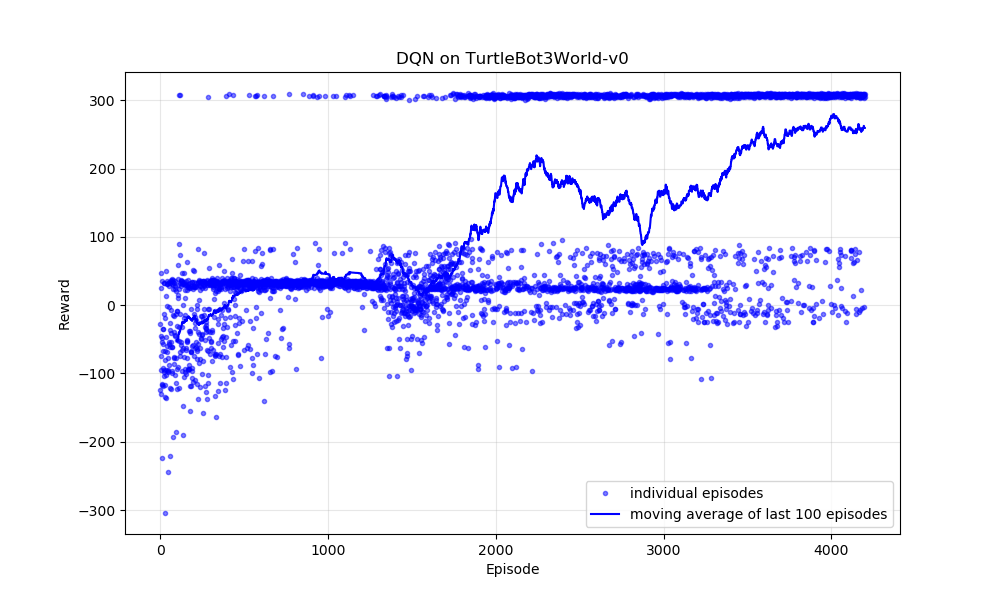
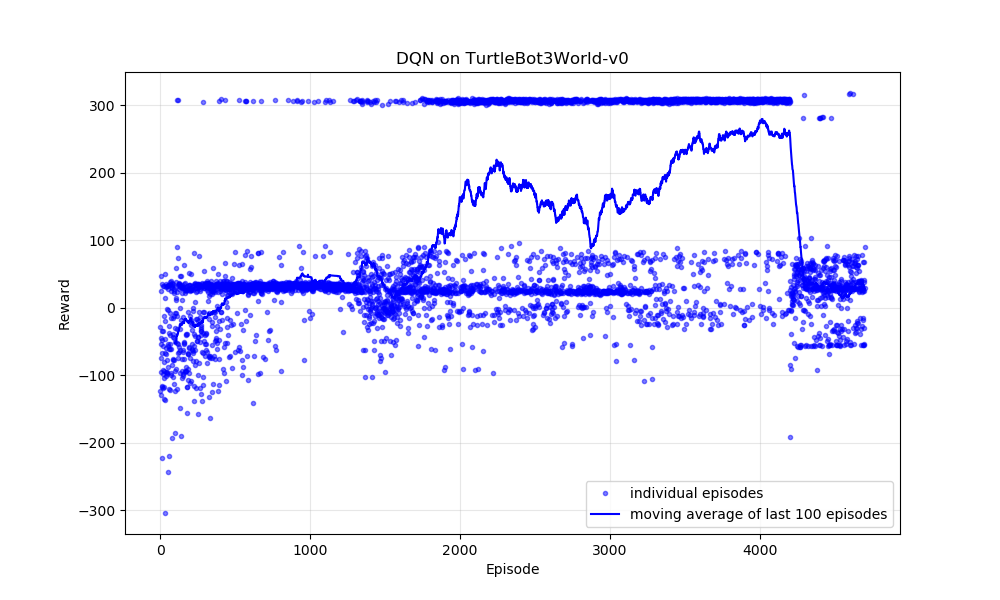
implement randomized goal position

diff --git a/thesis_ws/src/openai_ros/openai_ros/src/openai_ros/task_envs/turtlebot3/turtlebot3_world.py b/thesis_ws/src/openai_ros/openai_ros/src/openai_ros/task_envs/turtlebot3/turtlebot3_world.py
@@ -11,6 +11,7 @@ import cv2
 from cv_bridge import CvBridge
 
 import matplotlib.pyplot as plt
+import random
 
 
 class TurtleBot3WorldEnv(turtlebot3_env.TurtleBot3Env):
@@ -76,11 +77,6 @@ class TurtleBot3WorldEnv(turtlebot3_env.TurtleBot3Env):
         self.min_laser_value = rospy.get_param('/turtlebot3/min_laser_value')
         self.max_linear_aceleration = rospy.get_param('/turtlebot3/max_linear_aceleration')
 
-        # Parameters for the goal point
-        self.goal_position = Point()
-        self.goal_position.x = rospy.get_param('/turtlebot3/goal_position_x', 5.0)
-        self.goal_position.y = rospy.get_param('/turtlebot3/goal_position_y', 5.0)
-        self.goal_position.z = 0.0
         self.goal_distance_threshold = rospy.get_param('/turtlebot3/goal_distance_threshold', 0.2)
 
         self.timeout = rospy.get_param('/turtlebot3/timeout', 120.0)
@@ -148,6 +144,21 @@ class TurtleBot3WorldEnv(turtlebot3_env.TurtleBot3Env):
         self.cumulated_reward = 0.0
         # Set to false Done, because its calculated asyncronously
         self._episode_done = False
+
+        # Dynamic goal position, changing every epsiode
+        goal_points = [(-0.5, 3.0), 
+                       (2.5, -1.0),
+                       (-2.5, 2.0),
+                       (-2.5, -2.0)]
+        
+        x, y = random.choice(goal_points)
+
+        self.goal_position = Point()
+        self.goal_position.x = x
+        self.goal_position.y = y
+        self.goal_position.z = 0.0
+
+        rospy.logwarn("Next Goal Position==>"+str(self.goal_position))
 
         # Initialize previous distance to the goal
         odometry = self.get_odom()

diff --git a/thesis_ws/src/my_turtlebot3_openai_example/scripts/start_deepqlearning.py b/thesis_ws/src/my_turtlebot3_openai_example/scripts/start_deepqlearning.py
@@ -449,6 +449,7 @@ if __name__ == '__main__':
 
     load_model = rospy.get_param("/turtlebot3/load_model", False)
     reset_epsilon = rospy.get_param("/turtlebot3/reset_epsilon", False)
+    reset_memory = rospy.get_param("/turtlebot3/reset_memory", False)
 
     alpha = rospy.get_param("/turtlebot3/alpha", 0.6)
     beta_start = rospy.get_param("/turtlebot3/beta_start", 0.4)
@@ -498,13 +499,17 @@ if __name__ == '__main__':
                     policy_net.load_state_dict(checkpoint['policy_net_state_dict'])
                     target_net.load_state_dict(checkpoint['target_net_state_dict'])
                     optimizer.load_state_dict(checkpoint['optimizer_state_dict'])
-                    memory = checkpoint['memory']
                     episode_rewards = checkpoint['episode_rewards']
                     steps_done = checkpoint['steps_done']
                     highest_reward = checkpoint['highest_reward']
                     if reset_epsilon:
-                        epsilon = 0.3
+                        epsilon = 0.4
                         rospy.loginfo("Resetting epsilon to {epsilon}")
+                    if reset_memory:
+                        memory = PriorityReplayMemory(100000, alpha, beta_start, beta_frames, elite_ratio, reward_threshold)
+                        rospy.loginfo("Resetting memory")
+                    else:
+                        memory = checkpoint['memory']
                     rospy.loginfo(f"Resuming training from episode {start_episode}")
 
     # Starts the main training loop: the one about the episodes to do

diff --git a/thesis_ws/src/openai_ros/openai_ros/src/openai_ros/robot_gazebo_env.py b/thesis_ws/src/openai_ros/openai_ros/src/openai_ros/robot_gazebo_env.py
@@ -95,12 +95,12 @@ class RobotGazeboEnv(gym.Env):
         increases the episode number by one.
         :return:
         """
-        rospy.logwarn("PUBLISHING REWARD...")
+        #rospy.logwarn("PUBLISHING REWARD...")
         self._publish_reward_topic(
                                     self.cumulated_episode_reward,
                                     self.episode_num
                                     )
-        rospy.logwarn("PUBLISHING REWARD...DONE="+str(self.cumulated_episode_reward)+",EP="+str(self.episode_num))
+        #rospy.logwarn("PUBLISHING REWARD...DONE="+str(self.cumulated_episode_reward)+",EP="+str(self.episode_num))
 
         self.episode_num += 1
         self.cumulated_episode_reward = 0
